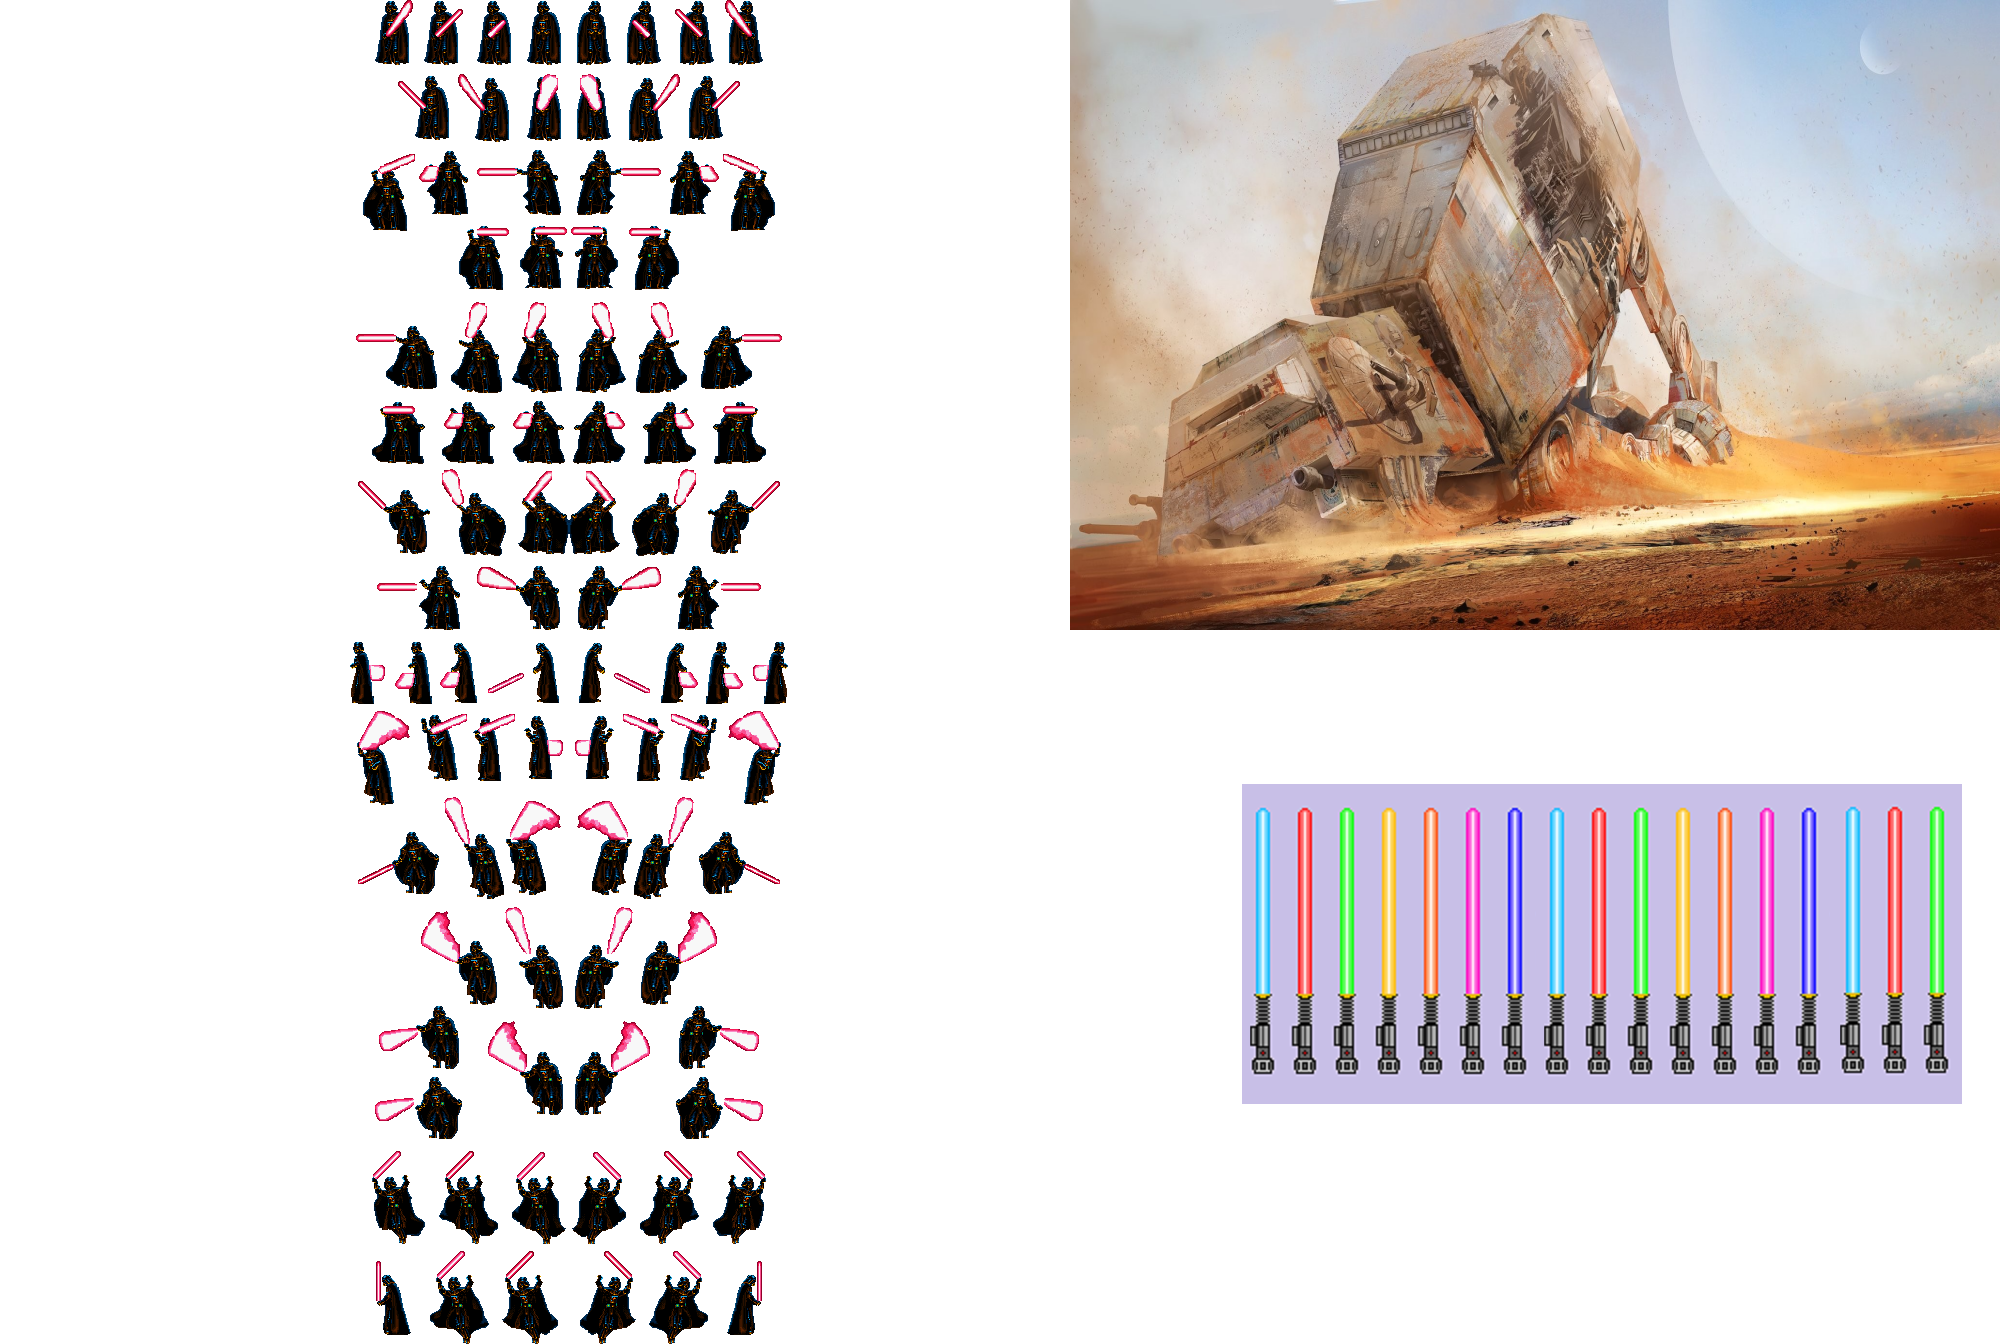
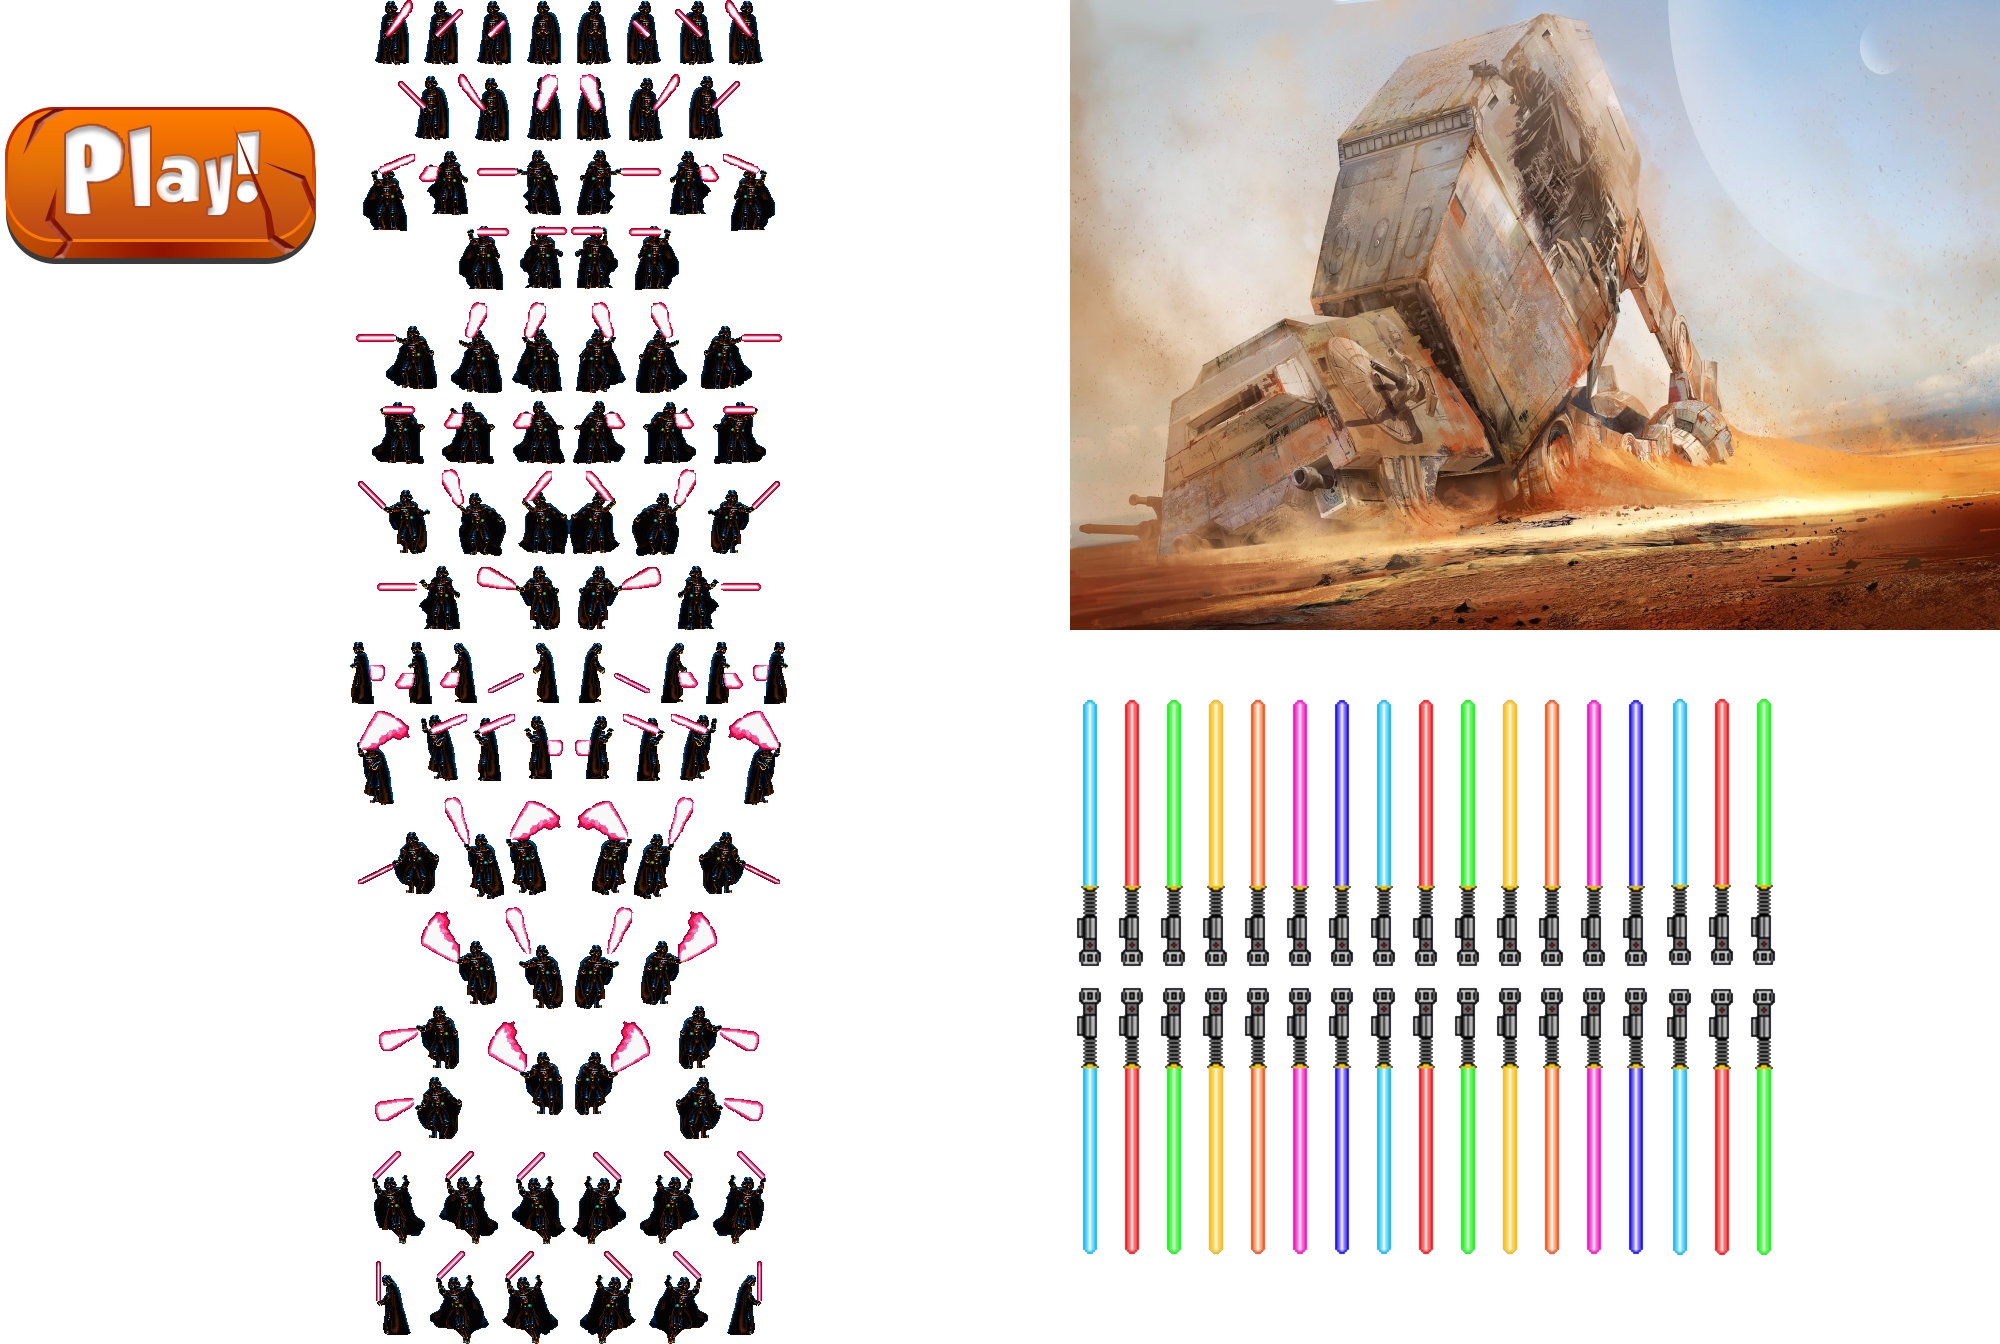
updated states

Changed region(s): [[0.527, 0.5, 0.992, 0.9375], [0.0, 0.0625, 0.155, 0.2188]]

diff --git a/Games Experiment/FlappyBirds/StarWar.js b/Games Experiment/FlappyBirds/StarWar.js
@@ -1,9 +1,8 @@
 var xWings;
-var sabers;
+var corals;
 var currentState;
 var renderingContext;
 var frames = 0;
-
 
 var width;
 var height;
@@ -20,9 +19,129 @@ function main() {
     currentState = states.Splash;
     document.body.appendChild(canvas);
     xWings = new XWings();
-    //sabers = new SabersCollection();
+    corals = new CoralCollection();
     loadGraphics();
 }
+
+
+
+
+
+function CoralCollection() {
+    this._corals = [];
+
+    /**
+     * Empty corals array
+     */
+    this.reset = function () {
+        this._corals = [];
+    };
+
+    /**
+     * Creates and adds a new Coral to the game.
+     */
+    this.add = function () {
+        this._corals.push(new Coral()); // Create and push coral to array
+    };
+
+    /**
+     * Update the position of existing corals and add new corals when necessary.
+     */
+    this.update = function () {
+        if (frames % 100 === 0) { // Add a new coral to the game every 100 frames.
+            this.add();
+        }
+
+        for (var i = 0, len = this._corals.length; i < len; i++) { // Iterate through the array of corals and update each.
+            var coral = this._corals[i]; // The current coral.
+
+            if (i === 0) { // If this is the leftmost coral, it is the only coral that the fish can collide with . . .
+                coral.detectCollision(); // . . . so, determine if the fish has collided with this leftmost coral.
+            }
+
+            coral.x -= 2; // Each frame, move each coral two pixels to the left. Higher/lower values change the movement speed.
+            if (coral.x < -coral.width) { // If the coral has moved off screen . . .
+                this._corals.splice(i, 1); // . . . remove it.
+                i--;
+                len--;
+            }
+        }
+    };
+
+    /**
+     * Draw all corals to canvas context.
+     */
+    this.draw = function () {
+        for (var i = 0, len = this._corals.length; i < len; i++) {
+            var coral = this._corals[i];
+            coral.draw();
+        }
+    };
+}
+
+/**
+ * The Coral class. Creates instances of Coral.
+ */
+function Coral() {
+    this.x = 500;
+    this.y = height - (bottomCoralSprite.height  + 120 + 200 * Math.random());
+    this.width = bottomCoralSprite.width;
+    this.height = bottomCoralSprite.height;
+
+    /**
+     * Determines if the fish has collided with the Coral.
+     * Calculates x/y difference and use normal vector length calculation to determine
+     */
+    this.detectCollision = function () {
+        // intersection
+        var cx = Math.min(Math.max(xWings.x, this.x), this.x + this.width);
+        var cy1 = Math.min(Math.max(xWings.y, this.y), this.y + this.height);
+        var cy2 = Math.min(Math.max(xWings.y, this.y + this.height + 110), this.y + 2 * this.height + 80);
+        // Closest difference
+        var dx = xWings.x - cx;
+        var dy1 = xWings.y - cy1;
+        var dy2 = xWings.y - cy2;
+        // Vector length
+        var d1 = dx * dx + dy1 * dy1;
+        var d2 = dx * dx + dy2 * dy2;
+        var r = xWings.radius * xWings.radius;
+        // Determine intersection
+        if (r > d1 || r > d2) {
+            currentState = states.Score;
+        }
+    };
+
+    this.draw = function () {
+        bottomCoralSprite.draw(renderingContext, this.x, this.y);
+        topCoralSprite.draw(renderingContext, this.x, this.y + 110 + this.height);
+    }
+}
+
+
+
+
+
+
+
+
+
+
+
+
+
+
+
+
+
+
+
+
+
+
+
+
+
+
 
 function XWings() {
     this.x = 140;
@@ -51,7 +170,7 @@ function XWings() {
         if (currentState === states.Splash) {
              this.updateIdleFish();
         } else { // Game state
-            this.updatePlayingFish();
+          //  this.updatePlayingFish();
         }
     };
 
@@ -67,7 +186,7 @@ function XWings() {
         renderingContext.rotate(this.rotation);
 
         var n = this.animation[this.frame];
-console.log(this.frame);
+
         VaderSprite[n].draw(renderingContext, -VaderSprite[n].width, -VaderSprite[n].height);
         renderingContext.restore();
 
@@ -82,7 +201,7 @@ function loadGraphics() {
        renderingContext.fillStyle = backgroundSprite.color;
        renderingContext.fillRect(0, 0, width, height);
 
-       // topSaberSprite.draw(renderingContext, 10, 10);
+       // topSaberSprite.draw(renderingContext);
         //backgroundSprite.draw(renderingContext, backgroundSprite.width, height - backgroundSprite.height);
         //fishSprite[0].draw(renderingContext, 5, 5, 142, 50);
 
@@ -106,9 +225,10 @@ function windowSetUp() {
         height = 600;
         inputEvent = "mousedown";
     }
+    document.addEventListener(inputEvent, onpress);
 }
 
-document.addEventListener(inputEvent, onpress);
+
 
 function canvasSetUp() {
     canvas = document.createElement("canvas");
@@ -142,7 +262,7 @@ function update() {
 function render() {
    renderingContext.fillRect(0, 0, width, height);
 
-  topSaberSprite.draw(renderingContext, 10, 10);
+    corals.draw(renderingContext);
     backgroundSprite.draw(renderingContext, 0, 0);
 
    xWings.draw(renderingContext);
@@ -154,7 +274,7 @@ function render() {
  * Called on mouse or touch press. Update and change state depending on current game state.
  * @param  {MouseEvent/TouchEvent} evt - the onpress event
  */
-function onpress(evt) {
+/*function onpress(evt) {
 
     switch (currentState) {
 
@@ -162,52 +282,6 @@ function onpress(evt) {
             currentState = states.Game;
             fish.jump();
 
-            break;
-
-        case states.Game: // The game is in progress. Update fish velocity.
-            fish.jump();
-            break;
-
-      /*  case states.Score: // Change from score to splash state if event within okButton bounding box
-            // Get event position
-            var mouseX = evt.offsetX, mouseY = evt.offsetY;
-
-            if (mouseX == null || mouseY == null) {
-                mouseX = evt.touches[0].clientX;
-                mouseY = evt.touches[0].clientY;
-            }
-
-            // Check if within the okButton
-            if (okButton.x < mouseX && mouseX < okButton.x + okButton.width &&
-                okButton.y < mouseY && mouseY < okButton.y + okButton.height
-            ) {
-                //console.log('click');
-                corals.reset();
-                currentState = states.Splash;
-                score = 0;
-            }
-            break;
-            */
-    }
-}
-
-var inputEvent = "touchstart";
-if (width >= 700) {
-    width = 500;
-    height = 640;
-    inputEvent = "mousedown";
-}
-
-// Background Graphics
-var img = new Image();
-img.src
-
-function onpress(evt) {
-    switch (currentState) {
-
-        case states.Splash: // Start the game and update the fish velocity.
-            currentState = states.Game;
-            fish.jump();
             break;
 
         case states.Game: // The game is in progress. Update fish velocity.
@@ -233,5 +307,52 @@ function onpress(evt) {
                 score = 0;
             }
             break;
+            
+    }
+}*/
+
+var inputEvent = "touchstart";
+if (width >= 700) {
+    width = 500;
+    height = 640;
+    inputEvent = "mousedown";
+}
+
+// Background Graphics
+var img = new Image();
+img.src
+
+function onpress(evt) {
+    switch (currentState) {
+
+        case states.Splash: // Start the game and update the fish velocity.
+            currentState = states.Game;
+            xWings.jump();
+            break;
+
+        case states.Game: // The game is in progress. Update fish velocity.
+            xWings.jump();
+            break;
+
+        case states.Score: // Change from score to splash state if event within okButton bounding box
+            // Get event position
+            var mouseX = evt.offsetX, mouseY = evt.offsetY;
+
+            if (mouseX == null || mouseY == null) {
+                mouseX = evt.touches[0].clientX;
+                mouseY = evt.touches[0].clientY;
+            }
+
+            // Check if within the okButton
+            if (okButton.x < mouseX && mouseX < okButton.x + okButton.width &&
+                okButton.y < mouseY && mouseY < okButton.y + okButton.height
+            ) {
+                //console.log('click');
+                corals.reset();
+                currentState = states.Splash;
+                score = 0;
+            }
+            break;
     }
 }
+

diff --git a/Games Experiment/FlappyBirds/XWing.js b/Games Experiment/FlappyBirds/XWing.js
@@ -1,6 +1,6 @@
 var VaderSprite;
-var topSaberSprite;
-var bottomSaberSprite;
+var topCoralSprite;
+var bottomCoralSprite;
 var backgroundSprite;
 
 function Sprite(img, x, y, width, height) {
@@ -26,8 +26,10 @@ function initSprites(img) {
 
 
     
-    topSaberSprite = new Sprite(img, 682, 22, 27, 268);
-    bottomSaberSprite = new Sprite(img, 179, 23, 20, 267);
+    topCoralSprite = new Sprite(img, 289, 0, 22, 32);
+    //topCoralSprite = new Sprite(img, 540, 493, 20, 269);
+    //bottomCoralSprite = new Sprite(img, 540, 350, 20, 269);
+    bottomCoralSprite = new Sprite(img, 289, 0, 22, 32);
 
 
 
